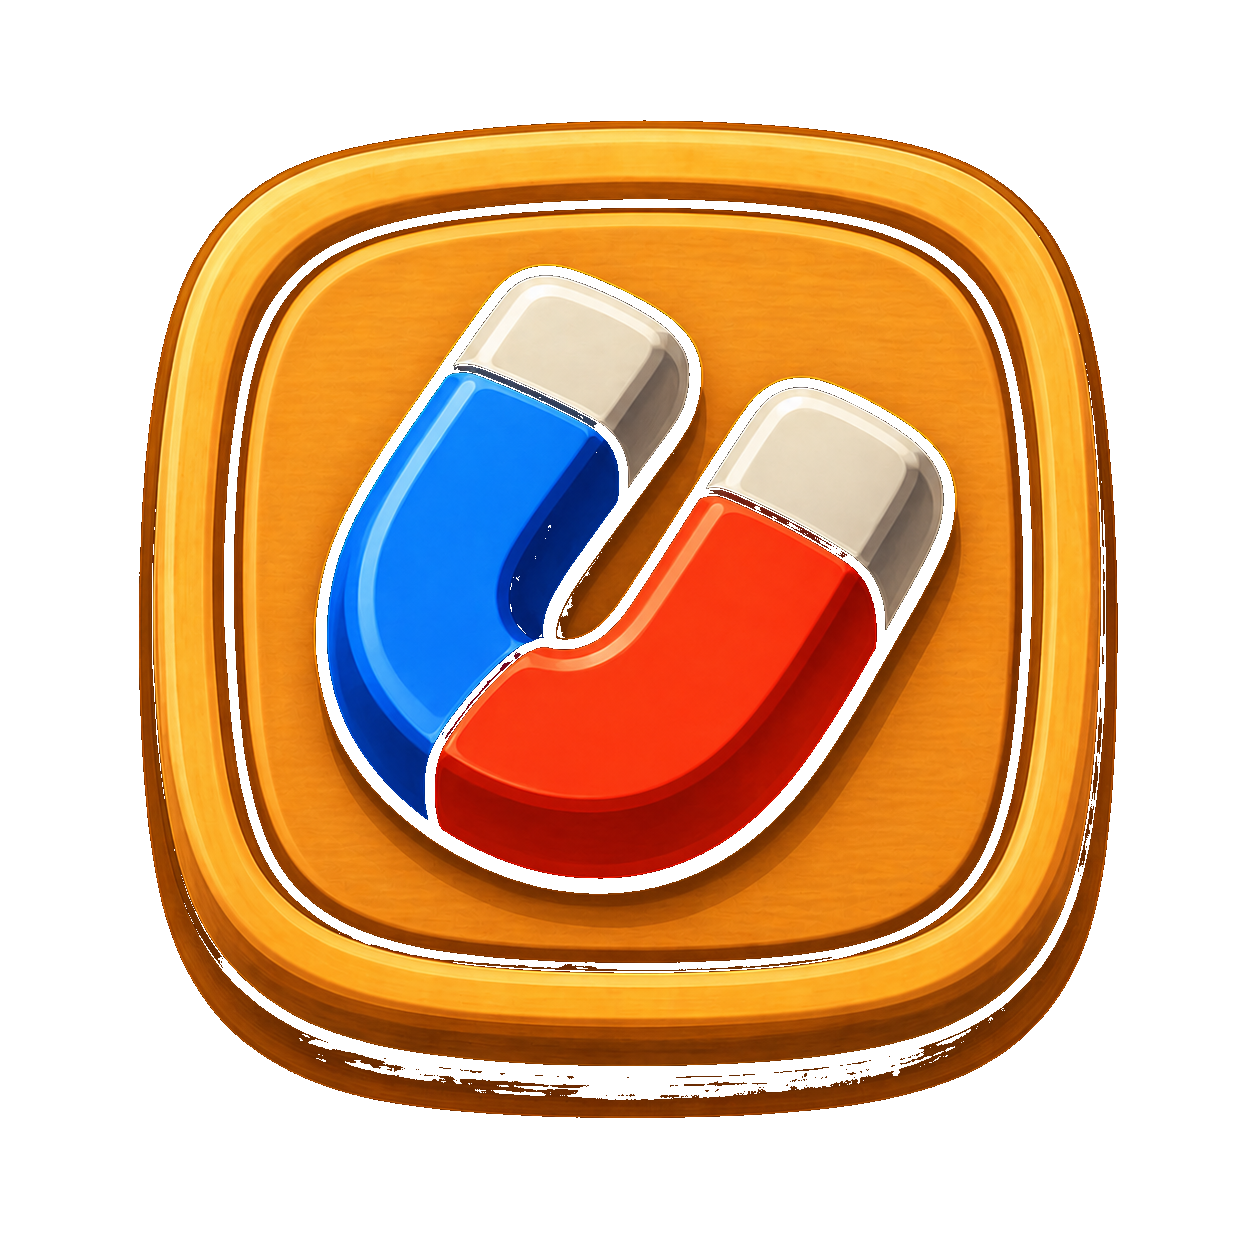
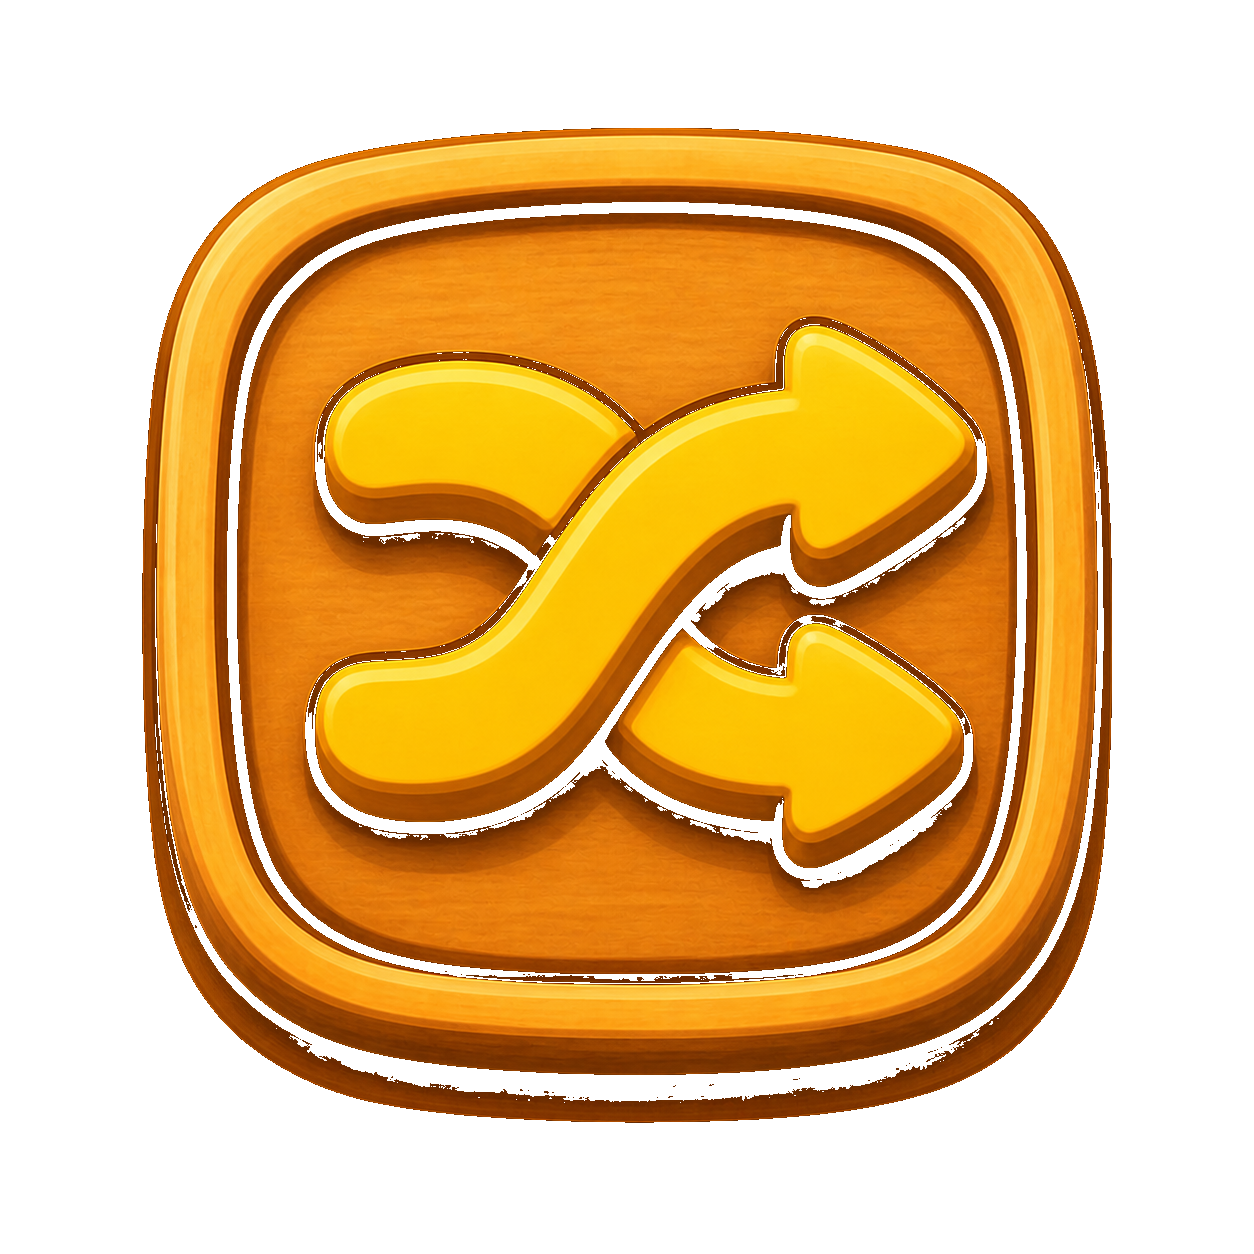
fix(juicyfruits): correct misnamed asset files for shuffle/magnet
자석(magnet) 시각화가 shuffle_pressed.png로, shuffle pressed 시각화가
expand_pressed.png로 잘못 저장돼 있어 assets.ts에서 우회 매핑으로 동작.
파일명을 실제 시각화에 맞게 정정.

- shuffle_pressed.png(자석 시각화) → magnet.png
- expand_pressed.png(shuffle pressed 시각화) → shuffle_pressed.png
- assets.ts: item_shuffle_pressed/ui_magnet 매핑 단순화

미사용 자산(expand.png, expand_normal.png, shuffle.png, extra.png)은
보존.

diff --git a/lib/juicyfruits-native/src/assets.ts b/lib/juicyfruits-native/src/assets.ts
@@ -25,15 +25,15 @@ export const TILE_ASSETS: Record<string, any> = {
   background: require('../../../juicyfruits/rn/assets/background.png'),
   item_undo: require('../../../juicyfruits/rn/assets/items/undo_normal.png'),
   item_undo_pressed: require('../../../juicyfruits/rn/assets/items/undo_pressed.png'),
-  item_shuffle: require('../../../juicyfruits/rn/assets/items/shuffle_normal.png'), 
-  item_shuffle_pressed: require('../../../juicyfruits/rn/assets/items/expand_pressed.png'), 
+  item_shuffle: require('../../../juicyfruits/rn/assets/items/shuffle_normal.png'),
+  item_shuffle_pressed: require('../../../juicyfruits/rn/assets/items/shuffle_pressed.png'),
   ui_settings: require('../../../juicyfruits/rn/assets/ui/icon_settings.png'),
   ui_play: require('../../../juicyfruits/rn/assets/ui/btn_play.png'),
   ui_home: require('../../../juicyfruits/rn/assets/ui/btn_home.png'),
   ui_restart: require('../../../juicyfruits/rn/assets/ui/btn_restart.png'),
   ui_exit: require('../../../juicyfruits/rn/assets/ui/btn_exit.png'),
   ui_status: require('../../../juicyfruits/rn/assets/ui/status_bar.png'),
-  ui_magnet: require('../../../juicyfruits/rn/assets/items/shuffle_pressed.png'), 
+  ui_magnet: require('../../../juicyfruits/rn/assets/items/magnet.png'),
 
   // Audio
   bgm_1: require('../../../juicyfruits/rn/assets/audio/bgm_1.mp3'),
